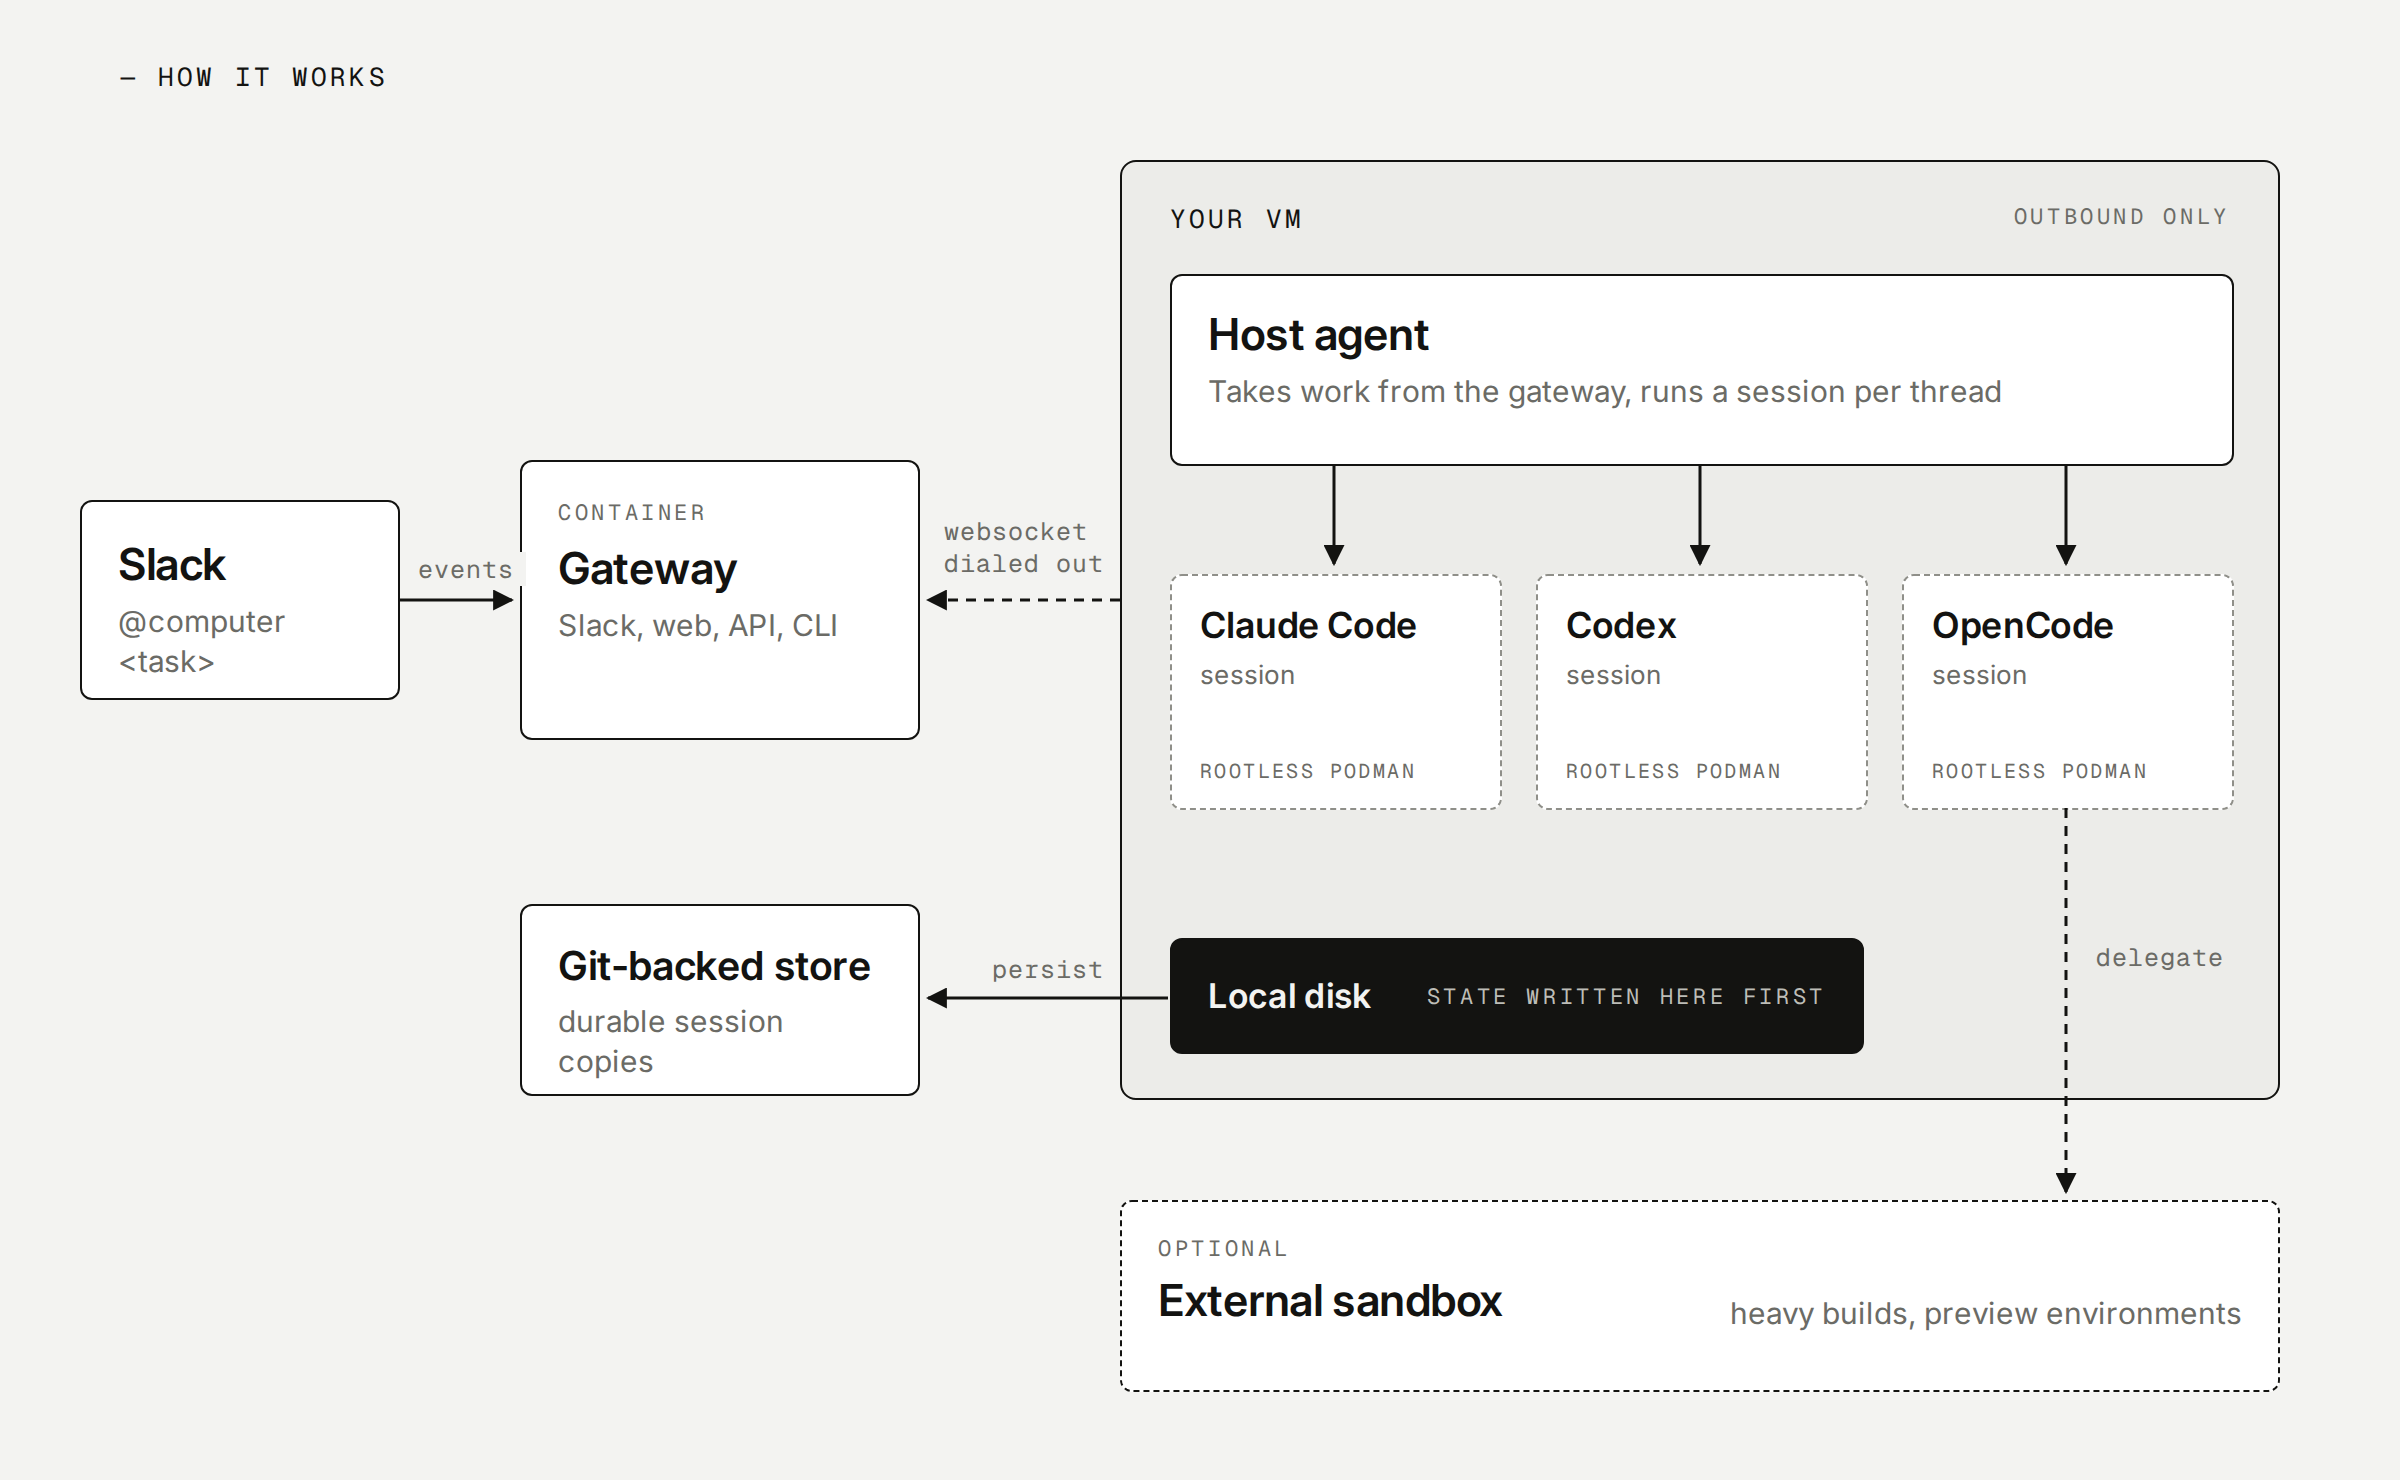
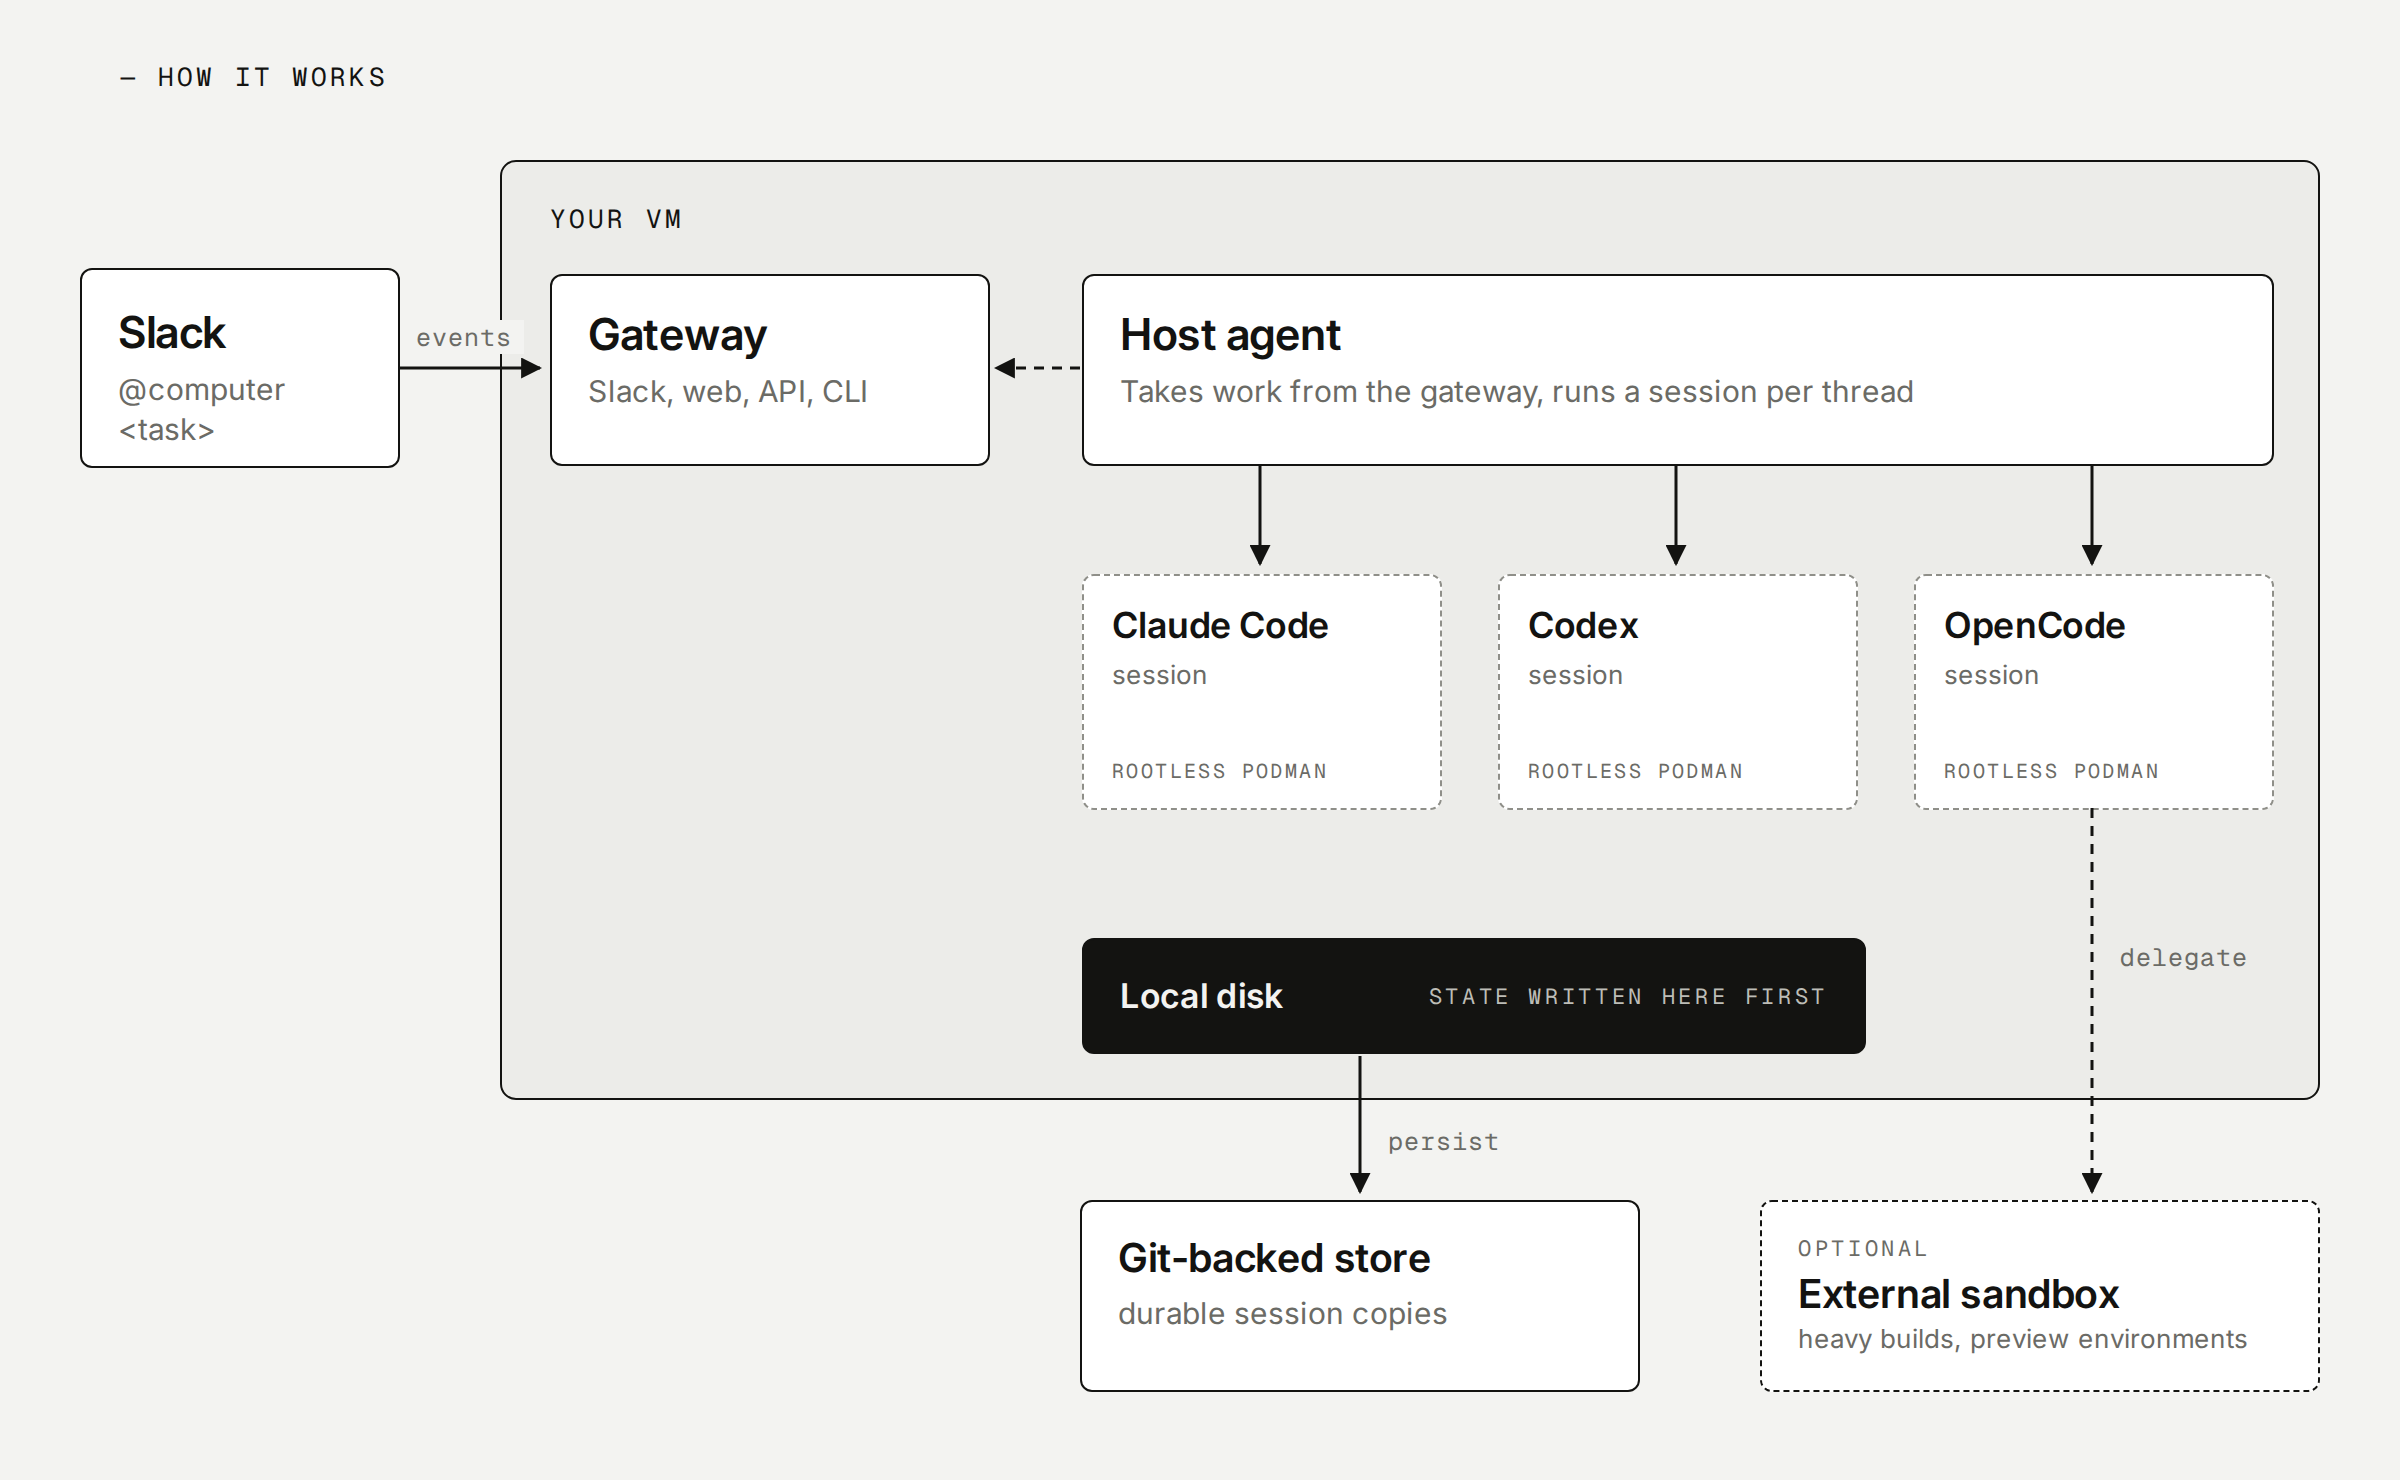
docs: diagram, gateway runs on the same VM by default

diff --git a/scripts/docs-architecture.html b/scripts/docs-architecture.html
@@ -8,51 +8,50 @@ body{width:1200px;height:740px;background:#f3f3f1;font-family:Inter,sans-serif;c
 .t{font-size:22px;font-weight:600;letter-spacing:-.01em}
 .s{font-size:15px;color:#6b6b66;margin-top:6px;line-height:1.35}
 .lbl{position:absolute;font-family:'Geist Mono',monospace;font-size:12.5px;color:#6b6b66;background:#f3f3f1;padding:0 6px}
-.vm{position:absolute;left:560px;top:80px;width:580px;height:470px;border:1.5px solid #131311;border-radius:8px;background:#ececE9}
-.sess{position:absolute;width:166px;height:118px;border:1.5px dashed #8f8f89;border-radius:6px;background:#fff;padding:14px}
+.vm{position:absolute;left:250px;top:80px;width:910px;height:470px;border:1.5px solid #131311;border-radius:8px;background:#ececE9}
+.vm .lbl{background:#ececE9}
+.sess{position:absolute;width:180px;height:118px;border:1.5px dashed #8f8f89;border-radius:6px;background:#fff;padding:14px}
 .sess .t{font-size:18px}
-.disk{position:absolute;left:24px;right:207px;bottom:22px;height:58px;border:1.5px solid #131311;border-radius:6px;background:#131311;color:#f3f3f1;display:flex;align-items:center;padding:0 18px;justify-content:space-between}
+.disk{position:absolute;left:290px;width:392px;bottom:22px;height:58px;border:1.5px solid #131311;border-radius:6px;background:#131311;color:#f3f3f1;display:flex;align-items:center;padding:0 18px;justify-content:space-between}
 </style></head><body>
 <div class="k" style="position:absolute;left:60px;top:30px">— How it works</div>
 
-<div class="box" style="left:40px;top:250px;width:160px;height:100px;padding:18px">
+<div class="box" style="left:40px;top:134px;width:160px;height:100px;padding:18px">
   <div class="t">Slack</div><div class="s">@computer &lt;task&gt;</div></div>
-
-<div class="box" style="left:260px;top:230px;width:200px;height:140px;padding:18px">
-  <div class="k" style="font-size:11px;color:#6b6b66">Container</div>
-  <div class="t" style="margin-top:8px">Gateway</div><div class="s">Slack, web, API, CLI</div></div>
 
 <div class="vm">
   <div class="k" style="position:absolute;left:24px;top:20px">Your VM</div>
-  <div class="k" style="position:absolute;right:24px;top:20px;color:#6b6b66;font-size:11px">outbound only</div>
-  <div class="box" style="left:24px;top:56px;width:532px;height:96px;padding:16px 18px">
+  <div class="box" style="left:24px;top:56px;width:220px;height:96px;padding:16px 18px">
+    <div class="t">Gateway</div>
+    <div class="s">Slack, web, API, CLI</div></div>
+  <div class="box" style="left:290px;top:56px;width:596px;height:96px;padding:16px 18px">
     <div class="t">Host agent</div>
     <div class="s">Takes work from the gateway, runs a session per thread</div></div>
-  <div class="sess" style="left:24px;top:206px"><div class="t">Claude Code</div><div class="s" style="font-size:13px">session</div><div class="k" style="position:absolute;bottom:12px;font-size:10px;color:#6b6b66">rootless podman</div></div>
-  <div class="sess" style="left:207px;top:206px"><div class="t">Codex</div><div class="s" style="font-size:13px">session</div><div class="k" style="position:absolute;bottom:12px;font-size:10px;color:#6b6b66">rootless podman</div></div>
-  <div class="sess" style="left:390px;top:206px"><div class="t">OpenCode</div><div class="s" style="font-size:13px">session</div><div class="k" style="position:absolute;bottom:12px;font-size:10px;color:#6b6b66">rootless podman</div></div>
+  <div class="sess" style="left:290px;top:206px"><div class="t">Claude Code</div><div class="s" style="font-size:13px">session</div><div class="k" style="position:absolute;bottom:12px;font-size:10px;color:#6b6b66">rootless podman</div></div>
+  <div class="sess" style="left:498px;top:206px"><div class="t">Codex</div><div class="s" style="font-size:13px">session</div><div class="k" style="position:absolute;bottom:12px;font-size:10px;color:#6b6b66">rootless podman</div></div>
+  <div class="sess" style="left:706px;top:206px"><div class="t">OpenCode</div><div class="s" style="font-size:13px">session</div><div class="k" style="position:absolute;bottom:12px;font-size:10px;color:#6b6b66">rootless podman</div></div>
   <div class="disk"><span style="font-size:17px;font-weight:600">Local disk</span><span class="k" style="font-size:11px;color:#bdbdb7">state written here first</span></div>
 </div>
 
-<div class="box" style="left:260px;top:452px;width:200px;height:96px;padding:18px">
-  <div class="t" style="font-size:20px;white-space:nowrap">Git-backed store</div><div class="s">durable session copies</div></div>
+<div class="box" style="left:540px;top:600px;width:280px;height:96px;padding:16px 18px">
+  <div class="t" style="font-size:20px">Git-backed store</div><div class="s">durable session copies</div></div>
 
-<div class="box" style="left:560px;top:600px;width:580px;height:96px;padding:16px 18px;border-style:dashed;background:#fff">
+<div class="box" style="left:880px;top:600px;width:280px;height:96px;padding:16px 18px;border-style:dashed">
   <div class="k" style="font-size:11px;color:#6b6b66">Optional</div>
-  <div class="t" style="margin-top:6px">External sandbox</div>
-  <div class="s" style="position:absolute;right:18px;top:40px">heavy builds, preview environments</div></div>
+  <div class="t" style="font-size:20px;margin-top:4px">External sandbox</div>
+  <div class="s" style="font-size:13px;margin-top:2px">heavy builds, preview environments</div></div>
+
 <svg width="1200" height="740" style="position:absolute;left:0;top:0;pointer-events:none">
  <defs><marker id="a" viewBox="0 0 10 10" refX="9" refY="5" markerWidth="7" markerHeight="7" orient="auto"><path d="M0 0L10 5L0 10z" fill="#131311"/></marker></defs>
- <line x1="200" y1="300" x2="256" y2="300" stroke="#131311" stroke-width="1.5" marker-end="url(#a)"/>
- <line x1="560" y1="300" x2="464" y2="300" stroke="#131311" stroke-width="1.5" stroke-dasharray="5 4" marker-end="url(#a)"/>
- <line x1="850" y1="232" x2="850" y2="282" stroke="#131311" stroke-width="1.5" marker-end="url(#a)"/>
- <line x1="667" y1="232" x2="667" y2="282" stroke="#131311" stroke-width="1.5" marker-end="url(#a)"/>
- <line x1="1033" y1="232" x2="1033" y2="282" stroke="#131311" stroke-width="1.5" marker-end="url(#a)"/>
- <line x1="584" y1="499" x2="464" y2="499" stroke="#131311" stroke-width="1.5" marker-end="url(#a)"/>
- <line x1="1033" y1="404" x2="1033" y2="596" stroke="#131311" stroke-width="1.5" stroke-dasharray="5 4" marker-end="url(#a)"/>
+ <line x1="200" y1="184" x2="270" y2="184" stroke="#131311" stroke-width="1.5" marker-end="url(#a)"/>
+ <line x1="540" y1="184" x2="498" y2="184" stroke="#131311" stroke-width="1.5" stroke-dasharray="5 4" marker-end="url(#a)"/>
+ <line x1="630" y1="232" x2="630" y2="282" stroke="#131311" stroke-width="1.5" marker-end="url(#a)"/>
+ <line x1="838" y1="232" x2="838" y2="282" stroke="#131311" stroke-width="1.5" marker-end="url(#a)"/>
+ <line x1="1046" y1="232" x2="1046" y2="282" stroke="#131311" stroke-width="1.5" marker-end="url(#a)"/>
+ <line x1="680" y1="528" x2="680" y2="596" stroke="#131311" stroke-width="1.5" marker-end="url(#a)"/>
+ <line x1="1046" y1="404" x2="1046" y2="596" stroke="#131311" stroke-width="1.5" stroke-dasharray="5 4" marker-end="url(#a)"/>
 </svg>
-<div class="lbl" style="left:1042px;top:470px;background:#ececE9">delegate</div>
-<div class="lbl" style="left:203px;top:276px">events</div>
-<div class="lbl" style="left:466px;top:258px;line-height:1.3">websocket<br>dialed out</div>
-<div class="lbl" style="left:490px;top:476px">persist</div>
+<div class="lbl" style="left:202px;top:160px">events</div>
+<div class="lbl" style="left:688px;top:562px">persist</div>
+<div class="lbl" style="left:1054px;top:470px;background:#ececE9">delegate</div>
 </body></html>
